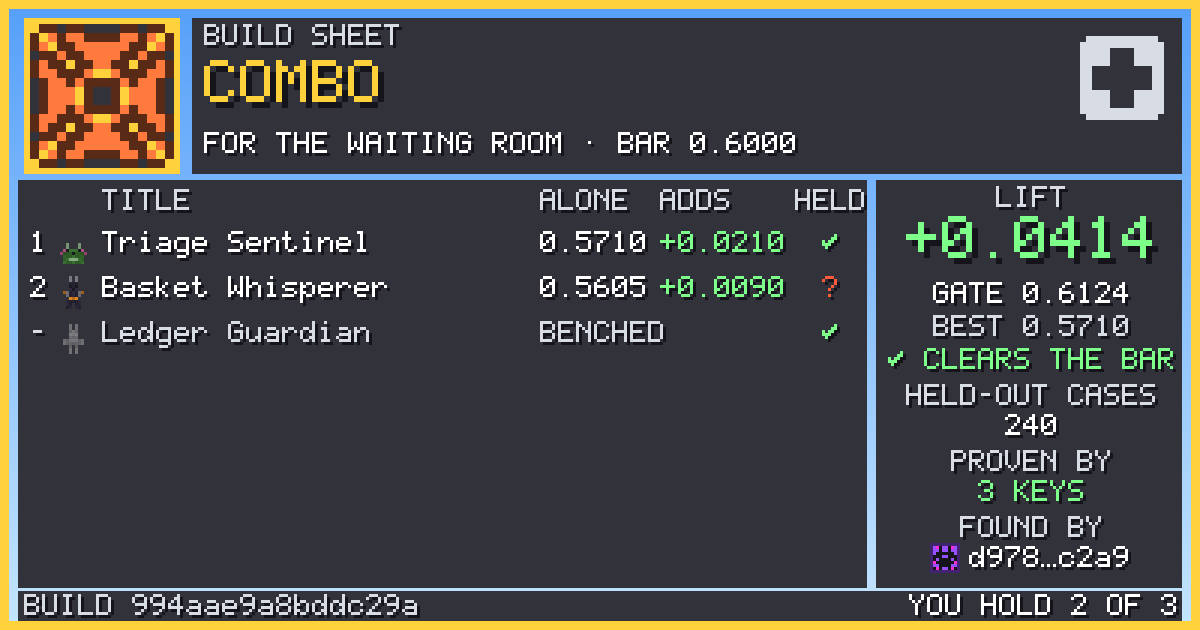
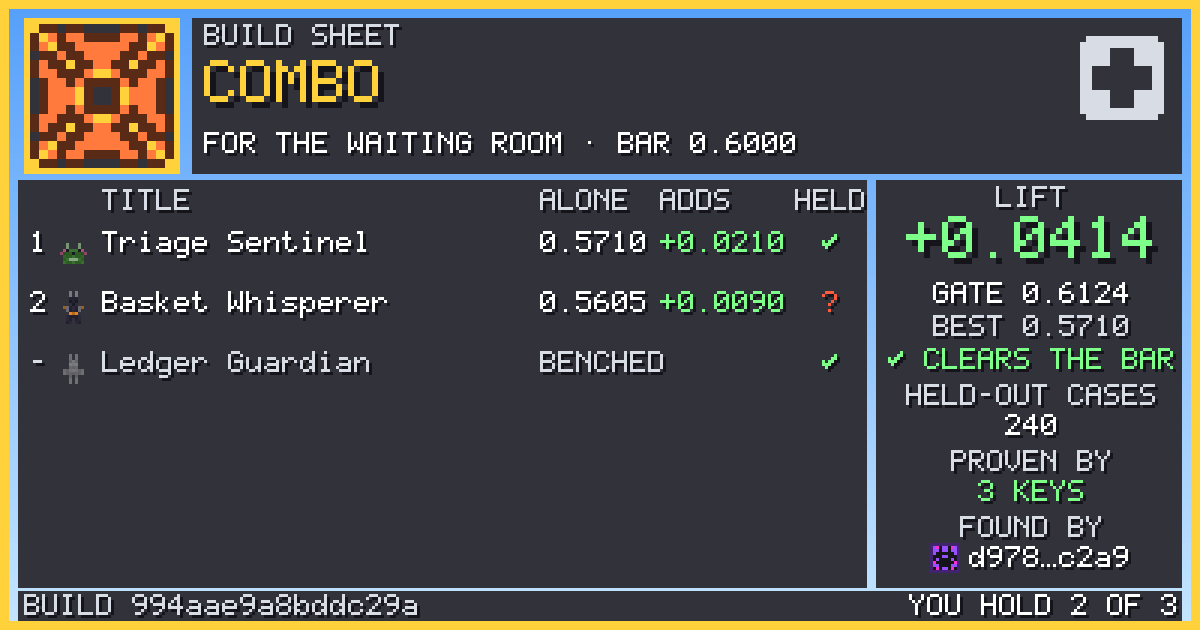
Kards: the build book, a job's proven builds ranked on one page
paintBook draws a page of the build book at the share size (400 x 210,
1200 x 630 at 3x) from the game's bookOf().jobs[ground] as it is: the
combos by lift, then the anti-combos by drop, a tie to the lower build
id; each row its rank, a small sigil grown from its build id, its name,
GATE, lift, finder's face and keys; six rows and a count of the rest;
the head the job, its bar and the best proven against it, gold once it
clears. It refuses a page whose numbers or order do not add up.

A build is now at most six cards (the game's limit): paintSheet takes
2 to 6 parts and paintBook 2 to 6 fielding. The sheet's rows sit 20 px
apart (a deliberate pin move); the sheet and the book share one frame,
theme and size check and output. Witness 331/331, none baselined.

diff --git a/kards/index.html b/kards/index.html
@@ -387,6 +387,13 @@ paintLineage({ id, rarity, parents: [{ id, rarity, parents? }, { id }] }, 'synth
   <p class="msg" id="sheet-msg" role="status" aria-live="polite"></p>
   <div class="actions"><button type="button" class="act alt" id="sd-dl">Download the sheet (1200 &times; 630)</button><span class="msg" id="sd-act" role="status" aria-live="polite"></span></div>
   <p class="hint">In this demo the receipt is dealt in your browser from the recipe above: what each part adds, the build's id, and its re-runs, signed by keys made from your key. Its verdict uses the game's margin. In Kardlings the game measures the build, and every number re-runs.</p>
+  <h3>The build book</h3>
+  <p>The build book is a job's leaderboard on one picture you can share (press <b>Download the page</b> below it for the PNG; in Kardlings it is the Build book panel of the builds screen). It lists every build the game has <b>proven</b> for that job, meaning two different players re-ran it on their own devices, each signing with their own <b>key</b> (a signing key made on their device), and got exactly the same numbers. A build's <b>GATE</b> is its score on held-out cases, the cases none of its cards learned from (0.5 is chance, 1.0 perfect). A <b>combo</b> beats the best of its cards alone by at least the game's sealed margin; an <b>anti-combo</b> does worse than the best of them by at least that margin. The combos come first, ranked by lift, the biggest first; then the anti-combos, marked &#x2717;, the biggest drop first. A tie goes to the lower <b>build id</b> (a hash of the build's recipe, its cards, so the same cards always make the same id), so two devices always rank the same book the same way.</p>
+  <p>Each row has its rank, a small sigil grown from its build's id (the same build always wears the same sigil), its name (its fielding parts' titles joined by &times;, cut short with &hellip; past 33 letters), its GATE, its <b>lift</b> (its GATE less the GATE of its best card alone), the face of the key that found it, and how many keys proved it. Six rows fit and the rest are counted. The head shows the job, its bar, and the best proven GATE against the bar; the page is framed in gold once that best clears it. The foot counts the combos, the anti-combos and the <b>plain</b> builds (proven, but neither a combo nor an anti-combo). It reads the game's own book for one job as it is. A page whose numbers or order do not add up is not drawn: the painter says which rule it breaks (a lift that is not the GATE less the best, rows out of order, a build counted twice).</p>
+  <canvas class="card estate" id="book-canvas" width="1200" height="630" role="img" aria-label="A page of the build book"></canvas>
+  <p class="msg" id="book-msg" role="status" aria-live="polite"></p>
+  <div class="actions"><button type="button" class="act" id="bk-deal">Deal a book</button><button type="button" class="act alt" id="bk-dl">Download the page (1200 &times; 630)</button><span class="msg" id="bk-act" role="status" aria-live="polite"></span></div>
+  <p class="hint">In this demo the book is dealt in your browser for the job of the recipe above: its builds, their lifts, their finders (your key among them) and their keys. In Kardlings it is every build proven on your device, and every line re-runs.</p>
   <h3>The job board</h3>
   <canvas class="card estate" id="jobs-canvas" width="720" height="480" role="img" aria-label="The job board"></canvas>
   <p class="hint">The real drop's jobs, raids re-skinned: each note is a job, with its business's icon, its name, its bar, and how many builds cleared it (a green check when one has). In this demo the cleared counts are an example.</p>
@@ -399,7 +406,9 @@ buildLift(build)   // { ok, lift (GATE minus the best part's), best, gate, clear
 comboName(build)   // { ok, name }: two words grown from the recipe, never typed (COMBO_WORDS)
 paintJobs({ jobs: [{ set, title?, bar, cleared, builds }] }, 'synthwave-v1', 720, 480)   // { ok, px, scale }: the job board
 paintSheet({ job, receipt, proof?, held? }, 'synthwave-v1', 1200, 630)   // { ok, px }: the build sheet, from the game's receipt and proof as they are
-// receipt: { build, data, parts: [{ card, title, joined, alone, contribution }], fielded, gate, best, lift, n, verdict, name }; proof: { proven, keys, finder }</code></pre>
+// receipt: { build, data, parts: [{ card, title, joined, alone, contribution }], fielded, gate, best, lift, n, verdict, name }; proof: { proven, keys, finder }
+paintBook({ job, page }, 'synthwave-v1', 1200, 630)   // { ok, px }: a page of the build book, from the game's bookOf().jobs[ground] as it is
+// page: { combos: [rows], anti: [rows], plain, best }; row: { id, build, name, gate, best, lift, fielded, finder, keys }</code></pre>
   <p><b>What it refuses.</b> It refuses, with a plain reason:</p>
   <ul>
     <li>a kit without exactly one lead, a fusion without two parents, a party of fewer than two;</li>
@@ -665,7 +674,7 @@ if (!art.ok) console.log(art.why);                       // bad input is a refus
       <tr><td>Every fact shows</td><td>changing any one fact changes the pixels, and a test checks the change lands only where that fact lives.</td></tr>
       <tr><td>1,000 ids, 1,000 Kardlings</td><td>1,000 random ids, 1,000 sequential ids and every single-bit change give distinct Kardlings; all are symmetric, connected, with eyes.</td></tr>
       <tr><td>Integer-only, browser-safe</td><td>a static check of the source: no banned <code>Math</code> calls, no <code>Date</code>, no float literals, one division, no imports.</td></tr>
-      <tr><td>The tests would notice a bug</td><td>a mutation witness flips every comparison, logic operator and &plusmn;1 in the code and the tests must kill every mutant, with nothing baselined: <b data-kernel="kards/kardart.mjs">298</b> mutants in the engine, <b data-kernel="kards/kardpng.mjs">16</b> in the PNG writer, <b data-kernel="kards/ui.mjs">44</b> in the UI kit, <b data-kernel="kards/ttf.mjs">55</b> in the font writer, <b data-kernel="kards/estate.mjs">251</b> in the estate painter, <b data-kernel="kards/arena.mjs">138</b> in the arena, <b data-kernel="kards/raid.mjs">134</b> in the raids, <b data-kernel="kards/gear.mjs">75</b> in the kit slots, <b data-kernel="kards/back.mjs">57</b> in the card backs, <b data-kernel="kards/build.mjs">273</b> in builds, combos and the build sheet, <b data-kernel="kards/fusion.mjs">118</b> in the Fusion Lab and <b data-kernel="kards/costcase.mjs">11</b> in the cost case, all killed. CI runs it on every push.</td></tr>
+      <tr><td>The tests would notice a bug</td><td>a mutation witness flips every comparison, logic operator and &plusmn;1 in the code and the tests must kill every mutant, with nothing baselined: <b data-kernel="kards/kardart.mjs">298</b> mutants in the engine, <b data-kernel="kards/kardpng.mjs">16</b> in the PNG writer, <b data-kernel="kards/ui.mjs">44</b> in the UI kit, <b data-kernel="kards/ttf.mjs">55</b> in the font writer, <b data-kernel="kards/estate.mjs">251</b> in the estate painter, <b data-kernel="kards/arena.mjs">138</b> in the arena, <b data-kernel="kards/raid.mjs">134</b> in the raids, <b data-kernel="kards/gear.mjs">75</b> in the kit slots, <b data-kernel="kards/back.mjs">57</b> in the card backs, <b data-kernel="kards/build.mjs">331</b> in builds, combos, the build sheet and the build book, <b data-kernel="kards/fusion.mjs">118</b> in the Fusion Lab and <b data-kernel="kards/costcase.mjs">11</b> in the cost case, all killed. CI runs it on every push.</td></tr>
     </tbody>
   </table></div>
   <h3>Check it in your own browser</h3>
@@ -712,7 +721,7 @@ import { paintRaid, bossHealth, bossSprite, BOSSES, paintChapter } from './raid.
 import { paintSlot, kitBadge, worthText } from './gear.mjs';
 import { paintBack, checkBack } from './back.mjs';
 import { paintFusion, fusionVerdict, paintLineage, MAX_TRIES } from './fusion.mjs';
-import { paintBuild, buildLift, checkBuild, paintJobs, paintSheet, ROLES } from './build.mjs';
+import { paintBuild, buildLift, checkBuild, paintJobs, paintSheet, paintBook, ROLES } from './build.mjs';
 
 const $ =(s, r = document) => r.querySelector(s);
 const THEME_IDS = Object.keys(THEMES);
@@ -1103,7 +1112,7 @@ function dealRecipe() {
   const best = Math.max(...parts.filter((p) => p.gate !== undefined).map((p) => p.gate));
   recipe = { job, kind, parts, gate: Math.max(0, Math.min(1000000, best - 12000 + byte() * 140)), cases: 240, reruns: byte() % 12, ...(kind === 'training' ? { method: pick(['distil', 'merge', 'tune']), student: { id: cards[5].id, rarity: cards[5].rarity, size: pick(['tiny', 'small', 'base']) } } : {}) };
   sheet = dealSheet(recipe);
-  renderBuild(); renderSheet();
+  renderBuild(); renderSheet(); dealBook();
 }
 // the build sheet: the recipe above as the game's receipt would read, its verdict dealt with the game's margin (0.005 GATE today)
 let sheet = null;
@@ -1131,6 +1140,31 @@ function renderSheet() {
 }
 $('#sd-dl').addEventListener('click', () => { const r = paintSheet(currentSheet(), $('#bd-theme').value, 1200, 630); if (!r.ok) return saidIn('#sd-act')('Fix the sheet first.'); savePNG(r.px, 1200, 630, 'build-sheet-' + sheet.receipt.build.slice(0, 8) + '.png'); saidIn('#sd-act')('Downloaded.'); });
 $('#key-in').addEventListener('input', () => { if (sheet) renderSheet(); });
+// the build book: a page dealt for the recipe's job, as the game's bookOf() would read it
+let bookPage = null;
+function dealBook() {
+  const job = recipe.job, hex = () => Array.from({ length: 32 }, () => (byte() + 256).toString(16).slice(1)).join(''), k = $('#key-in').value.trim();
+  const finders = [/^[0-9a-f]{64}$/.test(k) ? k : hex(), hex(), hex()], tie = (a, b) => (a.build < b.build ? -1 : a.build > b.build ? 1 : 0);
+  const row = (sign) => {
+    const n = 2 + (byte() % 3), names = [...SAMPLES].sort(() => byte() - 128).slice(0, n).map((s) => s.title), best = job.bar - 40000 + byte() * 150, lift = sign * (SHEET_MARGIN + byte() * 90);
+    return { id: hex(), build: hex(), name: names.join(' × '), gate: best + lift, best, lift, fielded: n, finder: finders[byte() % 3], keys: 2 + (byte() % 9) };
+  };
+  const combos = Array.from({ length: byte() % 10 }, () => row(1)).sort((a, b) => b.lift - a.lift || tie(a, b));
+  const anti = Array.from({ length: byte() % 4 }, () => row(-1)).sort((a, b) => a.lift - b.lift || tie(a, b));
+  const plain = byte() % 5, gates = combos.concat(anti).map((r) => r.gate);
+  bookPage = { job, page: { combos, anti, plain, best: gates.length || plain ? Math.max(0, ...gates, plain ? job.bar - 30000 + byte() * 120 : 0) : null } };
+  renderBook();
+}
+function renderBook() {
+  const t = $('#bd-theme').value, r = paintBook(bookPage, t, 1200, 630), m = $('#book-msg'), P = bookPage.page, J = bookPage.job;
+  if (!r.ok) { m.className = 'msg bad'; m.textContent = 'Not drawn: ' + r.why + '.'; return; }
+  putRGB($('#book-canvas'), r.px, 1200, 630);
+  m.className = 'msg ok';
+  m.textContent = 'The build book for ' + (J.title || J.set) + ': ' + P.combos.length + (P.combos.length === 1 ? ' combo, ' : ' combos, ') + P.anti.length + (P.anti.length === 1 ? ' anti-combo, ' : ' anti-combos, ') + P.plain + ' plain; ' + (P.best === null ? 'nothing proven yet' : 'the best proven ' + g4(P.best) + (P.best >= J.bar ? ', clearing the bar' : ', under the bar of ' + g4(J.bar))) + '.';
+  $('#book-canvas').setAttribute('aria-label', 'A page of the build book in ' + THEMES[t].name + '. ' + m.textContent);
+}
+$('#bk-deal').addEventListener('click', dealBook);
+$('#bk-dl').addEventListener('click', () => { const r = paintBook(bookPage, $('#bd-theme').value, 1200, 630); if (!r.ok) return saidIn('#bk-act')('Deal a book first.'); savePNG(r.px, 1200, 630, 'build-book-' + bookPage.job.set + '.png'); saidIn('#bk-act')('Downloaded.'); });
 function currentBuild() { return { ...recipe, ...($('#bd-combo').checked ? { combo: true, finder: $('#key-in').value.trim() } : {}), ...($('#bd-reveal').checked ? { reveal: true } : {}) }; }
 function renderBuild() {
   const b = currentBuild(), t = $('#bd-theme').value, c = checkBuild(b), m = $('#build-msg');
@@ -1144,7 +1178,7 @@ function renderBuild() {
 $('#bd-deal').addEventListener('click', () => { $('#bd-combo').checked = false; $('#bd-reveal').checked = false; dealRecipe(); });
 $('#bd-kind').addEventListener('input', () => { $('#bd-combo').checked = false; $('#bd-reveal').checked = false; dealRecipe(); });
 for (const id of ['#bd-combo', '#bd-reveal', '#bd-theme']) $(id).addEventListener('input', () => { renderBuild(); renderJobs(); });
-$('#bd-theme').addEventListener('input', renderSheet);
+$('#bd-theme').addEventListener('input', () => { renderSheet(); renderBook(); });
 $('#bd-dl').addEventListener('click', () => { const b = currentBuild(), r = paintBuild(b, $('#bd-theme').value, 384, 560); if (!r.ok) return saidIn('#bd-act')('Fix the build first.'); savePNG(r.px, 384, 560, 'build-' + b.kind + '-' + b.parts[0].id.slice(0, 6) + '.png'); saidIn('#bd-act')('Downloaded.'); });
 const JOBS = { jobs: [{ set: 'shop', bar: 931634, cleared: true, builds: 3 }, { set: 'telco', bar: 828213, cleared: false, builds: 0 }, { set: 'adult', title: 'Employer', bar: 600000, cleared: true, builds: 1 }, { set: 'bank', title: 'Credit Gate', bar: 600000, cleared: false, builds: 0 }, { set: 'credit', title: 'Billing', bar: 600000, cleared: false, builds: 0 }, { set: 'hospital', title: 'The Waiting Room', bar: 600000, cleared: true, builds: 12 }, { set: 'hospital', title: 'Pharmacy', bar: 600000, cleared: false, builds: 0 }] };
 function renderJobs() { const t = $('#bd-theme').value, r = paintJobs(JOBS, t, 720, 480); if (r.ok) { putRGB($('#jobs-canvas'), r.px, 720, 480); $('#jobs-canvas').setAttribute('aria-label', 'The job board in ' + THEMES[t].name + ': ' + JOBS.jobs.length + ' jobs, ' + JOBS.jobs.filter((j) => j.cleared).length + ' cleared.'); } }

diff --git a/README.md b/README.md
@@ -81,11 +81,17 @@ The game UI is built from the same blocks as the cards, from one source: `kards/
 
 #### The build sheet: a build to share
 
-![build sheets: a combo proven by three keys, an anti-combo, a plain build with one part fielding, five parts fielding of eight](kards/gallery/sheets.png)
+![build sheets: a combo proven by three keys, an anti-combo, a plain build with one part fielding, five parts fielding of six](kards/gallery/sheets.png)
 
 ![a build sheet at the share size, 1200 x 630](kards/gallery/sheet-share.png)
 
-`paintSheet({ job, receipt, proof?, held? }, themeId, w, h) -> { ok, px RGB }` (400 x 210 logical, scaled to the nearest pixel; 1200 x 630, a link preview's size, at 3 x) reads the game's own records as they are: `receipt` is what the game's `measure()` makes (`{ build, data, parts: [{ card, title, joined, alone, contribution }], fielded, gate, best, lift, n, verdict, name }`) and `proof` what its `proofOf()` makes (`{ proven, keys, finder }`); fields it does not draw are left unread. Each part is a row: its Kardling, its title, its GATE alone and what the build loses without it, the fielding parts first in the order of the build's name (their titles joined by ×), the benched ones dimmed, and with `held` (the card ids this device holds) a ? by each part it does not. The sigil is grown from the build's id. It draws the game's sealed verdict (combo, anti or plain) and refuses a receipt whose numbers do not add up: a lift that is not the gate less the best, a best that is not the highest alone among the fielding parts, a fielded count that is not theirs, a name that is not their titles, a combo or an anti-combo whose lift points the other way, a finder that is not the first key. `checkSheet` reads one without drawing it.
+`paintSheet({ job, receipt, proof?, held? }, themeId, w, h) -> { ok, px RGB }` (400 x 210 logical, scaled to the nearest pixel; 1200 x 630, a link preview's size, at 3 x) reads the game's own records as they are: `receipt` is what the game's `measure()` makes (`{ build, data, parts: [{ card, title, joined, alone, contribution }] (2 to 6: a build is at most six cards), fielded, gate, best, lift, n, verdict, name }`) and `proof` what its `proofOf()` makes (`{ proven, keys, finder }`); fields it does not draw are left unread. Each part is a row: its Kardling, its title, its GATE alone and what the build loses without it, the fielding parts first in the order of the build's name (their titles joined by ×), the benched ones dimmed, and with `held` (the card ids this device holds) a ? by each part it does not. The sigil is grown from the build's id. It draws the game's sealed verdict (combo, anti or plain) and refuses a receipt whose numbers do not add up: a lift that is not the gate less the best, a best that is not the highest alone among the fielding parts, a fielded count that is not theirs, a name that is not their titles, a combo or an anti-combo whose lift points the other way, a finder that is not the first key. `checkSheet` reads one without drawing it.
+
+#### The build book: a job's leaderboard
+
+![pages of the build book: more proven builds than fit, a job its best has cleared, plain builds alone, nothing proven yet](kards/gallery/books.png)
+
+`paintBook({ job, page }, themeId, w, h) -> { ok, px RGB }` (the same 400 x 210 share picture, 1200 x 630 at 3 x) draws a page of the build book from the game's `bookOf().jobs[ground]` as it is: `{ combos: [rows], anti: [rows], plain, best }`, each row `{ id, build, name, gate, best, lift, fielded, finder, keys }`. The combos come first, biggest lift first, then the anti-combos (marked ✗), biggest drop first; a tie goes to the lower build id. Each row has its rank, a small sigil grown from its build id, its name (cut with … past 33 letters), its GATE, its lift, its finder's face and how many keys proved it; six rows fit and the rest are counted. The head shows the job, its bar and the best proven GATE against it, framed in gold once the best clears the bar; the foot counts the combos, anti-combos and plain builds. It refuses a page whose numbers or order do not add up: a lift that is not the gate less the best, a combo that does not lift or an anti-combo that does not drop, a name that is not its 2 to 6 fielding titles, rows out of order, a receipt twice, or a best below a row's GATE. `checkBook` reads one without drawing it.
 
 ### The campaign: the raids as chapters
 
